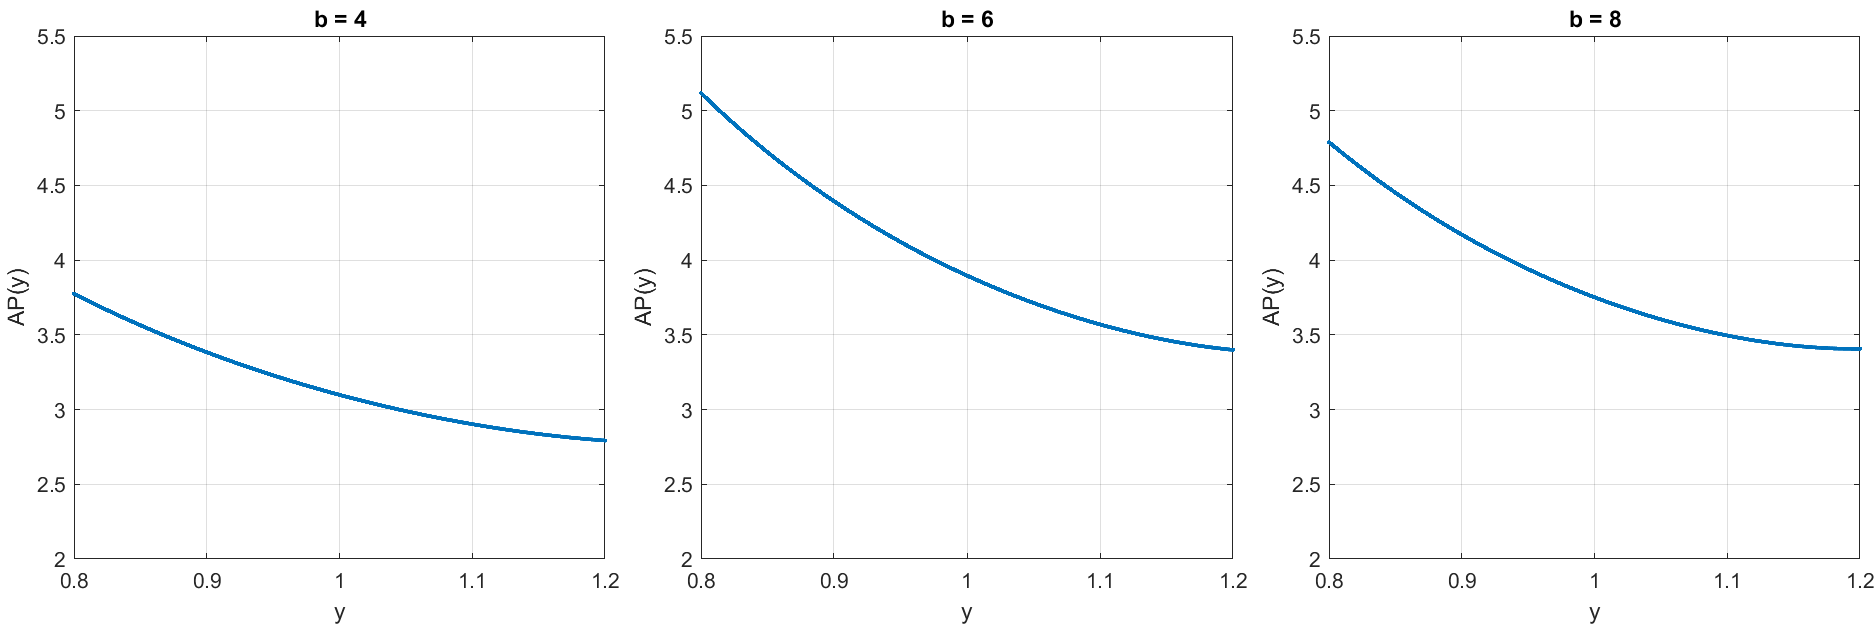
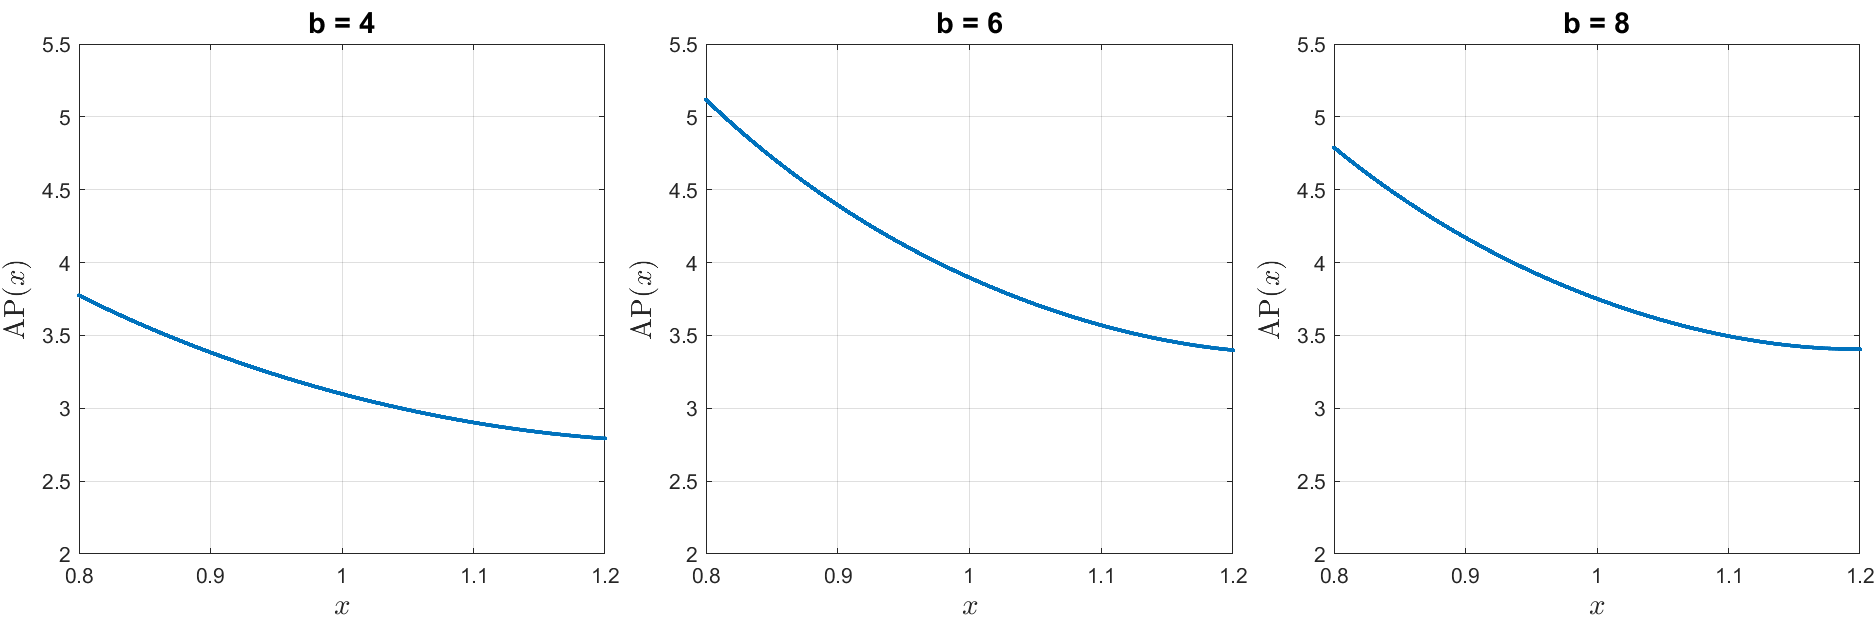
Rename variable y to x in the image

diff --git a/04  風險偏好指標（Risk Preference）/Procedure__Risk_Preference.m b/04  風險偏好指標（Risk Preference）/Procedure__Risk_Preference.m
@@ -182,8 +182,8 @@ for idx = 1:3
 
     plot(y, store_g(idx, :), '.');
     title(['b = ', num2str((idx + 1) * 2)]);
-    xlabel('y');
-    ylabel('g(y)');
+    xlabel('$x$', 'Interpreter', 'latex');
+    ylabel('$g(x)$', 'Interpreter', 'latex');
     xlim([x_min, x_max]);
     ylim([y_min, y_max]);
     grid on;
@@ -205,56 +205,56 @@ figure;
 layout = tiledlayout(3, 4, 'TileSpacing', 'Compact', 'Padding', 'None');
 
 for idx = 1:3
-    % Plot g(y)
+    % Plot g(x)
     nexttile;
 
     hold on;
     plot(y, store_g(idx, :), 'LineStyle', '--', 'LineWidth', 2, 'Color', 'r');
-    title(['g(y), b = ', num2str((idx + 1) * 2)]);
-    xlabel('y');
-    ylabel('g(y)');
+    title(['$g(x), b = ', num2str((idx + 1) * 2), '$'], 'Interpreter', 'latex', 'FontSize', 14);
+    xlabel('$x$', 'Interpreter', 'latex', 'FontSize', 14);
+    ylabel('$g(x)$', 'Interpreter', 'latex', 'FontSize', 14);
     xlim([x_min, x_max]);
     ylim([0, 1.5]);
     grid on;
     set(gca, 'box', 'on');
     hold off;
 
-    % Plot g'(y)
+    % Plot g'(x)
     nexttile;
 
     hold on;
     plot(y, store_g_prime(idx, :), '.');
-    title(['g''(y), b = ', num2str((idx + 1) * 2)]);
-    xlabel('y');
-    ylabel('g''(y)');
+    title(['$g^\prime(x), b = ', num2str((idx + 1) * 2), '$'], 'Interpreter', 'latex', 'FontSize', 14);
+    xlabel('$x$', 'Interpreter', 'latex', 'FontSize', 14);
+    ylabel('$g^\prime(x)$', 'Interpreter', 'latex', 'FontSize', 14);
     xlim([x_min, x_max]);
     ylim([-1.5, 2]);
     grid on;
     set(gca, 'box', 'on');
     hold off;
 
-    % Plot g''(y)
+    % Plot g''(x)
     nexttile;
 
     hold on;
     plot(y, store_g_double_prime(idx, :), '.');
-    title(['g''''(y), b = ', num2str((idx + 1) * 2)]);
-    xlabel('y');
-    ylabel('g''''(y)');
+    title(['$g^{\prime\prime}(x), b = ', num2str((idx + 1) * 2), '$'], 'Interpreter', 'latex', 'FontSize', 14);
+    xlabel('$x$', 'Interpreter', 'latex', 'FontSize', 14);
+    ylabel('$g^{\prime\prime}(x)$', 'Interpreter', 'latex', 'FontSize', 14);
     xlim([x_min, x_max]);
     ylim([-2, 7]);
     grid on;
     set(gca, 'box', 'on');
     hold off;
 
-    % Plot g'''(y)
+    % Plot g'''(x)
     nexttile;
 
     hold on;
     plot(y, store_g_triple_prime(idx, :), '.');
-    title(['g''''''(y), b = ', num2str((idx + 1) * 2)]);
-    xlabel('y');
-    ylabel('g''''''(y)');
+    title(['$g^{\prime\prime\prime}(x), b = ', num2str((idx + 1) * 2), '$'], 'Interpreter', 'latex', 'FontSize', 14);
+    xlabel('$x$', 'Interpreter', 'latex', 'FontSize', 14);
+    ylabel('$g^{\prime\prime\prime}(x)$', 'Interpreter', 'latex', 'FontSize', 14);
     xlim([x_min, x_max]);
     ylim([-7, -3]);
     grid on;
@@ -265,7 +265,7 @@ end
 
 % sgtitle('g Function and Its Derivatives');
 
-set(gcf, 'Position', [100, 100, 1500, 850]);
+set(gcf, 'Position', [10, 10, 1500, 900]);
 
 filename = 'g_Function_and_Its_Derivatives.png';
 saveas(gcf, fullfile(Path_Output, filename));
@@ -287,9 +287,9 @@ for idx = 1:3
     % fill([x_start x_end x_end x_start], [y_min y_min y_max y_max], fill_color, 'FaceAlpha', 0.5, 'EdgeColor', 'none');
 
     plot(y, store_ARA(idx, :), '.');
-    title(['b = ', num2str((idx + 1) * 2)]);
-    xlabel('y');
-    ylabel('ARA(y)');
+    title(['b = ', num2str((idx + 1) * 2)], 'FontSize', 14);
+    xlabel('$x$', 'Interpreter', 'latex', 'FontSize', 14);
+    ylabel('$\mathrm{ARA}(x)$', 'Interpreter', 'latex', 'FontSize', 14);
     xlim([x_start, x_end]);
     ylim([y_min, y_max]);
     grid on;
@@ -320,9 +320,9 @@ for idx = 1:3
     % fill([x_start x_end x_end x_start], [y_min y_min y_max y_max], fill_color, 'FaceAlpha', 0.5, 'EdgeColor', 'none');
 
     plot(y, store_RRA(idx, :), '.');
-    title(['b = ', num2str((idx + 1) * 2)]);
-    xlabel('y');
-    ylabel('RRA(y)');
+    title(['b = ', num2str((idx + 1) * 2)], 'FontSize', 14);
+    xlabel('$x$', 'Interpreter', 'latex', 'FontSize', 14);
+    ylabel('$\mathrm{RRA}(x)$', 'Interpreter', 'latex', 'FontSize', 14);
     xlim([x_start, x_end]);
     ylim([y_min, y_max]);
     grid on;
@@ -353,9 +353,9 @@ for idx = 1:3
     % fill([x_start x_end x_end x_start], [y_min y_min y_max y_max], fill_color, 'FaceAlpha', 0.5, 'EdgeColor', 'none');
 
     plot(y, store_AP(idx, :), '.');
-    title(['b = ', num2str((idx + 1) * 2)]);
-    xlabel('y');
-    ylabel('AP(y)');
+    title(['b = ', num2str((idx + 1) * 2)], 'FontSize', 14);
+    xlabel('$x$', 'Interpreter', 'latex', 'FontSize', 14);
+    ylabel('$\mathrm{AP}(x)$', 'Interpreter', 'latex', 'FontSize', 14);
     xlim([x_start, x_end]);
     ylim([y_min, y_max]);
     grid on;
@@ -386,9 +386,9 @@ for idx = 1:3
     % fill([x_start x_end x_end x_start], [y_min y_min y_max y_max], fill_color, 'FaceAlpha', 0.5, 'EdgeColor', 'none');
 
     plot(y, store_RP(idx, :), '.');
-    title(['b = ', num2str((idx + 1) * 2)]);
-    xlabel('y');
-    ylabel('RP(y)');
+    title(['b = ', num2str((idx + 1) * 2)], 'FontSize', 14);
+    xlabel('$x$', 'Interpreter', 'latex', 'FontSize', 14);
+    ylabel('$\mathrm{RP}(x)$', 'Interpreter', 'latex', 'FontSize', 14);
     xlim([x_start, x_end]);
     ylim([y_min, y_max]);
     grid on;
@@ -419,9 +419,9 @@ for idx = 1:3
     % fill([x_start x_end x_end x_start], [y_min y_min y_max y_max], fill_color, 'FaceAlpha', 0.5, 'EdgeColor', 'none');
 
     plot(y, store_AT(idx, :), '.');
-    title(['b = ', num2str((idx + 1) * 2)]);
-    xlabel('y');
-    ylabel('AT(y)');
+    title(['b = ', num2str((idx + 1) * 2)], 'FontSize', 14);
+    xlabel('$x$', 'Interpreter', 'latex', 'FontSize', 14);
+    ylabel('$\mathrm{AT}(x)$', 'Interpreter', 'latex', 'FontSize', 14);
     xlim([x_start, x_end]);
     ylim([y_min, y_max]);
     grid on;
@@ -452,9 +452,9 @@ for idx = 1:3
     % fill([x_start x_end x_end x_start], [y_min y_min y_max y_max], fill_color, 'FaceAlpha', 0.5, 'EdgeColor', 'none');
 
     plot(y, store_RT(idx, :), '.');
-    title(['b = ', num2str((idx + 1) * 2)]);
-    xlabel('y');
-    ylabel('RT(y)');
+    title(['b = ', num2str((idx + 1) * 2)], 'FontSize', 14);
+    xlabel('$x$', 'Interpreter', 'latex', 'FontSize', 14);
+    ylabel('$\mathrm{RT}(x)$', 'Interpreter', 'latex', 'FontSize', 14);
     xlim([x_start, x_end]);
     ylim([y_min, y_max]);
     grid on;
@@ -489,56 +489,56 @@ layout = tiledlayout(3, 4, 'TileSpacing', 'Compact', 'Padding', 'None');
 set(gcf, 'Color', mBackground);
 
 for idx = 1:3
-    % Plot g(y)
+    % Plot g(x)
     nexttile;
 
     hold on;
     plot(y, store_g(idx, :), 'LineStyle', '--', 'LineWidth', 2, 'Color', 'r');
-    title(['g(y), b = ', num2str((idx + 1) * 2)], 'FontName', 'Fira Sans', 'FontSize', 12);
-    xlabel('y');
-    ylabel('g(y)');
+    title(['$g(x), b = ', num2str((idx + 1) * 2), '$'], 'Interpreter', 'latex', 'FontSize', 14);
+    xlabel('$x$', 'Interpreter', 'latex', 'FontSize', 14);
+    ylabel('$g(x)$', 'Interpreter', 'latex', 'FontSize', 14);
     xlim([x_min, x_max]);
     ylim([0, 1.5]);
     grid on;
     set(gca, 'box', 'on');
     hold off;
 
-    % Plot g'(y)
+    % Plot g'(x)
     nexttile;
 
     hold on;
-    plot(y, store_g_prime(idx, :), '.', 'Color', 'b');
-    title(['g''(y), b = ', num2str((idx + 1) * 2)], 'FontName', 'Fira Sans', 'FontSize', 12);
-    xlabel('y');
-    ylabel('g''(y)');
+    plot(y, store_g_prime(idx, :), '.');
+    title(['$g^\prime(x), b = ', num2str((idx + 1) * 2), '$'], 'Interpreter', 'latex', 'FontSize', 14);
+    xlabel('$x$', 'Interpreter', 'latex', 'FontSize', 14);
+    ylabel('$g^\prime(x)$', 'Interpreter', 'latex', 'FontSize', 14);
     xlim([x_min, x_max]);
     ylim([-1.5, 2]);
     grid on;
     set(gca, 'box', 'on');
     hold off;
 
-    % Plot g''(y)
+    % Plot g''(x)
     nexttile;
 
     hold on;
-    plot(y, store_g_double_prime(idx, :), '.', 'Color', 'b');
-    title(['g''''(y), b = ', num2str((idx + 1) * 2)], 'FontName', 'Fira Sans', 'FontSize', 12);
-    xlabel('y');
-    ylabel('g''''(y)');
+    plot(y, store_g_double_prime(idx, :), '.');
+    title(['$g^{\prime\prime}(x), b = ', num2str((idx + 1) * 2), '$'], 'Interpreter', 'latex', 'FontSize', 14);
+    xlabel('$x$', 'Interpreter', 'latex', 'FontSize', 14);
+    ylabel('$g^{\prime\prime}(x)$', 'Interpreter', 'latex', 'FontSize', 14);
     xlim([x_min, x_max]);
     ylim([-2, 7]);
     grid on;
     set(gca, 'box', 'on');
     hold off;
 
-    % Plot g'''(y)
+    % Plot g'''(x)
     nexttile;
 
     hold on;
-    plot(y, store_g_triple_prime(idx, :), '.', 'Color', 'b');
-    title(['g''''''(y), b = ', num2str((idx + 1) * 2)], 'FontName', 'Fira Sans', 'FontSize', 12);
-    xlabel('y');
-    ylabel('g''''''(y)');
+    plot(y, store_g_triple_prime(idx, :), '.');
+    title(['$g^{\prime\prime\prime}(x), b = ', num2str((idx + 1) * 2), '$'], 'Interpreter', 'latex', 'FontSize', 14);
+    xlabel('$x$', 'Interpreter', 'latex', 'FontSize', 14);
+    ylabel('$g^{\prime\prime\prime}(x)$', 'Interpreter', 'latex', 'FontSize', 14);
     xlim([x_min, x_max]);
     ylim([-7, -3]);
     grid on;
@@ -549,7 +549,7 @@ end
 
 % sgtitle('g Function and Its Derivatives');
 
-set(gcf, 'Position', [100, 100, 1500, 850]);
+set(gcf, 'Position', [10, 10, 1500, 900]);
 
 filename = 'Slide_g_Function_and_Its_Derivatives.png';
 exportgraphics(gcf, fullfile(Path_Output, filename), 'BackgroundColor', 'current');
@@ -572,9 +572,9 @@ for idx = 1:3
     % fill([x_start x_end x_end x_start], [y_min y_min y_max y_max], fill_color, 'FaceAlpha', 0.5, 'EdgeColor', 'none');
 
     plot(y, store_ARA(idx, :), '.');
-    title(['b = ', num2str((idx + 1) * 2)], 'FontName', 'Fira Sans', 'FontSize', 12);
-    xlabel('y');
-    ylabel('ARA(y)');
+    title(['b = ', num2str((idx + 1) * 2)], 'FontName', 'Fira Sans', 'FontSize', 14);
+    xlabel('$x$', 'Interpreter', 'latex', 'FontSize', 14);
+    ylabel('$\mathrm{ARA}(x)$', 'Interpreter', 'latex', 'FontSize', 14);
     xlim([x_start, x_end]);
     ylim([y_min, y_max]);
     grid on;
@@ -606,9 +606,9 @@ for idx = 1:3
     % fill([x_start x_end x_end x_start], [y_min y_min y_max y_max], fill_color, 'FaceAlpha', 0.5, 'EdgeColor', 'none');
 
     plot(y, store_RRA(idx, :), '.');
-    title(['b = ', num2str((idx + 1) * 2)], 'FontName', 'Fira Sans', 'FontSize', 12);
-    xlabel('y');
-    ylabel('RRA(y)');
+    title(['b = ', num2str((idx + 1) * 2)], 'FontName', 'Fira Sans', 'FontSize', 14);
+    xlabel('$x$', 'Interpreter', 'latex', 'FontSize', 14);
+    ylabel('$\mathrm{RRA}(x)$', 'Interpreter', 'latex', 'FontSize', 14);
     xlim([x_start, x_end]);
     ylim([y_min, y_max]);
     grid on;
@@ -640,9 +640,9 @@ for idx = 1:3
     % fill([x_start x_end x_end x_start], [y_min y_min y_max y_max], fill_color, 'FaceAlpha', 0.5, 'EdgeColor', 'none');
 
     plot(y, store_AP(idx, :), '.');
-    title(['b = ', num2str((idx + 1) * 2)], 'FontName', 'Fira Sans', 'FontSize', 12);
-    xlabel('y');
-    ylabel('AP(y)');
+    title(['b = ', num2str((idx + 1) * 2)], 'FontName', 'Fira Sans', 'FontSize', 14);
+    xlabel('$x$', 'Interpreter', 'latex', 'FontSize', 14);
+    ylabel('$\mathrm{AP}(x)$', 'Interpreter', 'latex', 'FontSize', 14);
     xlim([x_start, x_end]);
     ylim([y_min, y_max]);
     grid on;
@@ -674,9 +674,9 @@ for idx = 1:3
     % fill([x_start x_end x_end x_start], [y_min y_min y_max y_max], fill_color, 'FaceAlpha', 0.5, 'EdgeColor', 'none');
 
     plot(y, store_RP(idx, :), '.');
-    title(['b = ', num2str((idx + 1) * 2)], 'FontName', 'Fira Sans', 'FontSize', 12);
-    xlabel('y');
-    ylabel('RP(y)');
+    title(['b = ', num2str((idx + 1) * 2)], 'FontName', 'Fira Sans', 'FontSize', 14);
+    xlabel('$x$', 'Interpreter', 'latex', 'FontSize', 14);
+    ylabel('$\mathrm{RP}(x)$', 'Interpreter', 'latex', 'FontSize', 14);
     xlim([x_start, x_end]);
     ylim([y_min, y_max]);
     grid on;
@@ -708,9 +708,9 @@ for idx = 1:3
     % fill([x_start x_end x_end x_start], [y_min y_min y_max y_max], fill_color, 'FaceAlpha', 0.5, 'EdgeColor', 'none');
 
     plot(y, store_AT(idx, :), '.');
-    title(['b = ', num2str((idx + 1) * 2)], 'FontName', 'Fira Sans', 'FontSize', 12);
-    xlabel('y');
-    ylabel('AT(y)');
+    title(['b = ', num2str((idx + 1) * 2)], 'FontName', 'Fira Sans', 'FontSize', 14);
+    xlabel('$x$', 'Interpreter', 'latex', 'FontSize', 14);
+    ylabel('$\mathrm{AT}(x)$', 'Interpreter', 'latex', 'FontSize', 14);
     xlim([x_start, x_end]);
     ylim([y_min, y_max]);
     grid on;
@@ -742,9 +742,9 @@ for idx = 1:3
     % fill([x_start x_end x_end x_start], [y_min y_min y_max y_max], fill_color, 'FaceAlpha', 0.5, 'EdgeColor', 'none');
 
     plot(y, store_RT(idx, :), '.');
-    title(['b = ', num2str((idx + 1) * 2)], 'FontName', 'Fira Sans', 'FontSize', 12);
-    xlabel('y');
-    ylabel('RT(y)');
+    title(['b = ', num2str((idx + 1) * 2)], 'FontName', 'Fira Sans', 'FontSize', 14);
+    xlabel('$x$', 'Interpreter', 'latex', 'FontSize', 14);
+    ylabel('$\mathrm{RT}(x)$', 'Interpreter', 'latex', 'FontSize', 14);
     xlim([x_start, x_end]);
     ylim([y_min, y_max]);
     grid on;
